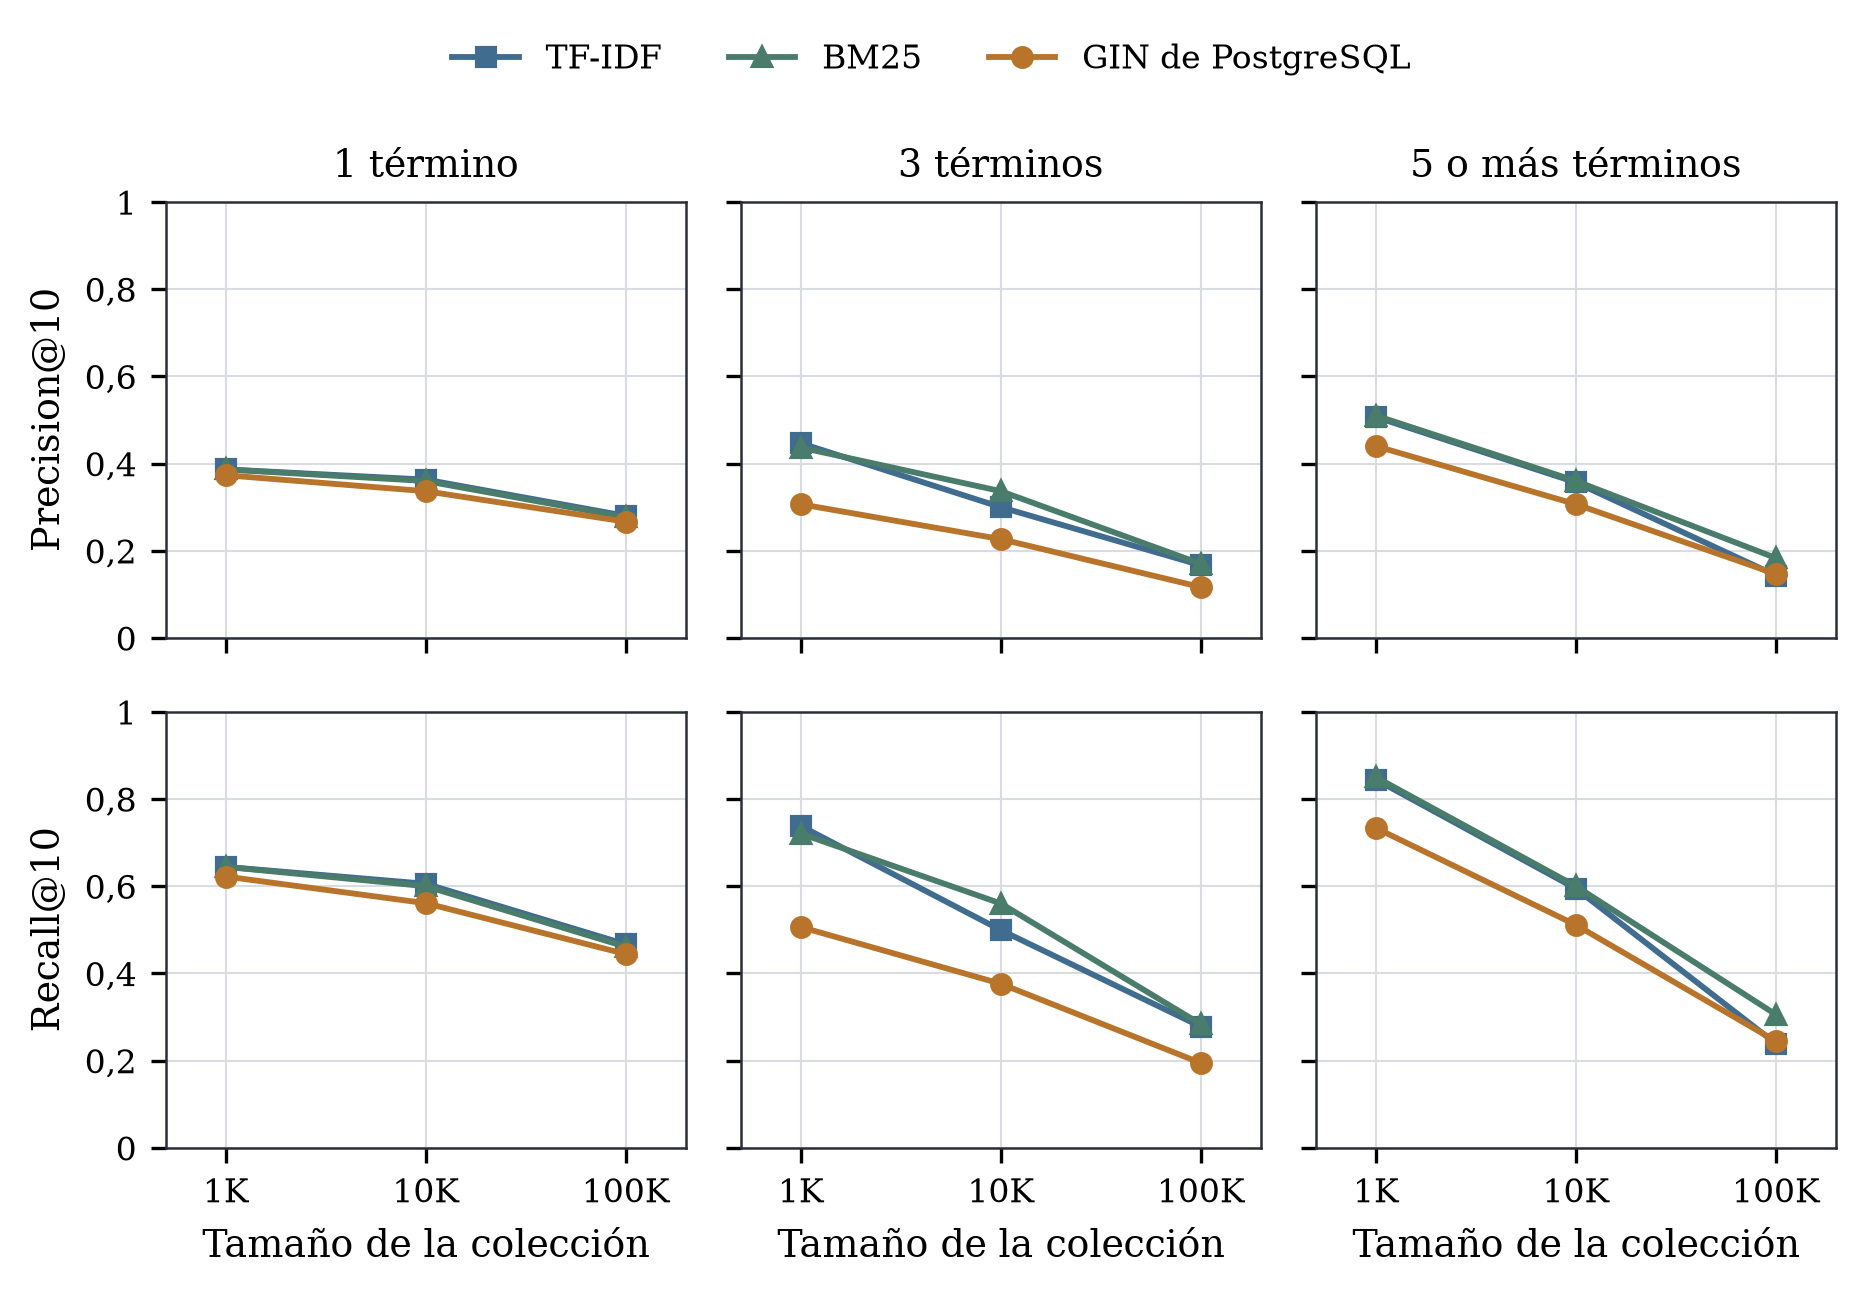
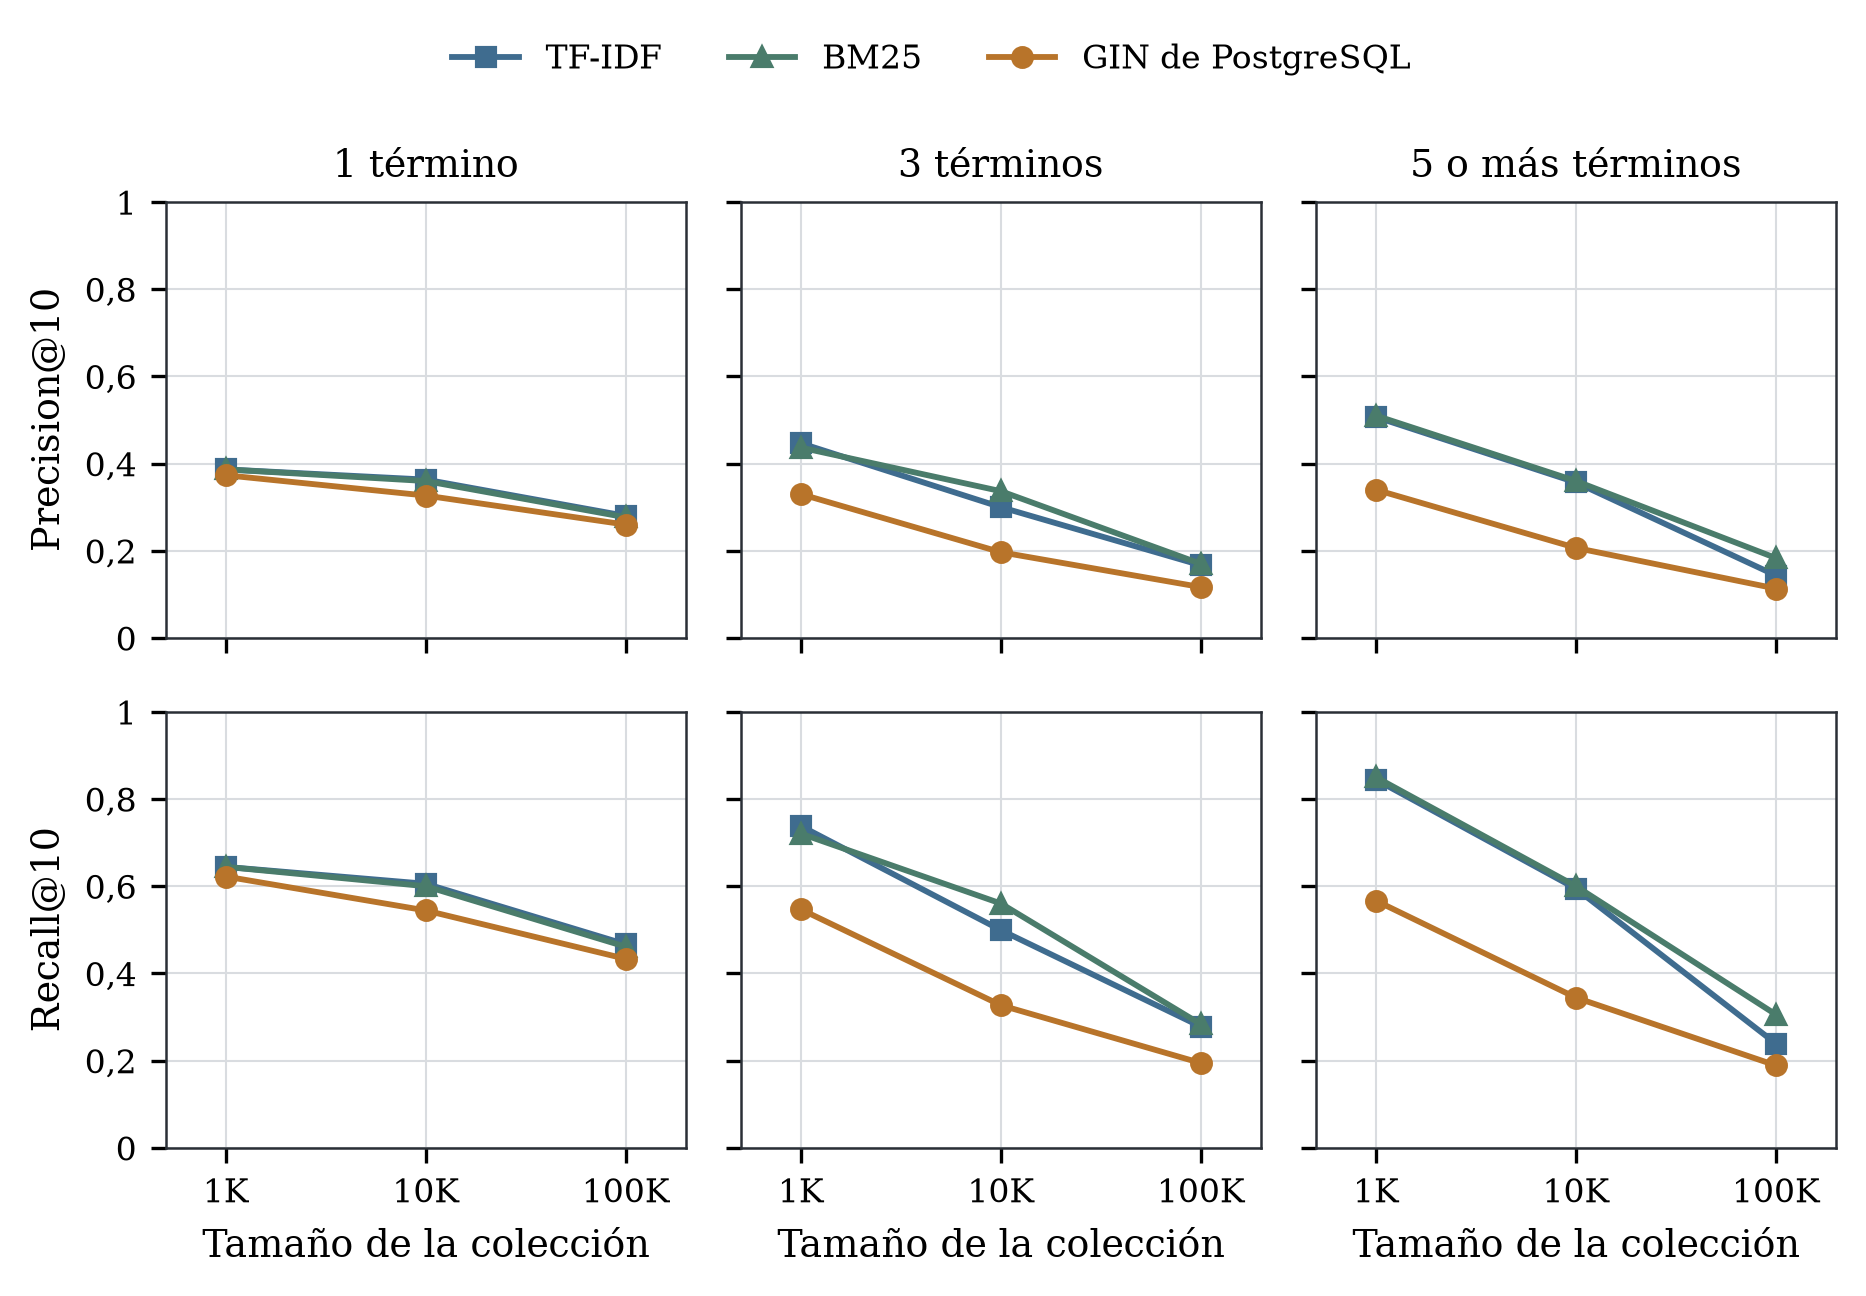
bench: minor changes to text comparisons

diff --git a/bench/experiments/texto.py b/bench/experiments/texto.py
@@ -1,6 +1,5 @@
 import argparse
 import csv
-import itertools
 import json
 import math
 import os
@@ -190,47 +189,41 @@ def _construir_pg_gin(conn, docs: list[tuple[int, str]], idioma_pg: str = "spani
 
 
 def _consultar_pg_gin(conn, texto_q: str, k: int, idioma_pg: str = "spanish") -> list[int]:
-    # 1) Conjuncion estricta (AND) con plainto_tsquery y ts_rank (frecuencia + normalizacion).
-    # 2) Si devuelve menos de k documentos en consultas de 2+ palabras, relajacion por quorum
-    #    de pares (t_i & t_j) para aprovechar las intersecciones de GIN sin escanear miles
-    #    de filas por una sola palabra comun.
+    # Usamos OR ('|') sobre los tokens de plainto_tsquery si AND estricto no devuelve k resultados,
+    # emulando ts_rank_cd sobre el indice GIN.
     with conn.cursor() as cur:
         cur.execute(
             f"""
             SELECT id
             FROM bench_esci_gin, plainto_tsquery('{idioma_pg}', %s) query
             WHERE tsv @@ query
-            ORDER BY ts_rank(tsv, query, 32) DESC
+            ORDER BY ts_rank_cd(tsv, query) DESC
             LIMIT %s;
             """,
             (texto_q, k),
         )
         ids = [int(r[0]) for r in cur.fetchall()]
-        if len(ids) >= k:
-            return ids[:k]
-
-        palabras = list(dict.fromkeys(w for w in preprocesar(texto_q, idioma_pg, stemming=False) if w))
-        if len(palabras) >= 2:
-            pares = ["(" + " & ".join(par) + ")" for par in itertools.combinations(palabras[:6], 2)]
-            expr = " | ".join(pares)
-            cur.execute(
-                f"""
-                SELECT id
-                FROM bench_esci_gin, to_tsquery('{idioma_pg}', %s) query
-                WHERE tsv @@ query
-                ORDER BY ts_rank(tsv, query, 32) DESC
-                LIMIT %s;
-                """,
-                (expr, k),
-            )
-            vistos = set(ids)
-            for (doc_id,) in cur.fetchall():
-                doc_id = int(doc_id)
-                if doc_id not in vistos:
-                    ids.append(doc_id)
-                    vistos.add(doc_id)
-                    if len(ids) >= k:
-                        break
+        if len(ids) < k:
+            palabras = [w for w in preprocesar(texto_q, idioma_pg, stemming=False) if w]
+            if len(palabras) > 1:
+                or_expr = " | ".join(palabras)
+                cur.execute(
+                    f"""
+                    SELECT id
+                    FROM bench_esci_gin, to_tsquery('{idioma_pg}', %s) query
+                    WHERE tsv @@ query
+                    ORDER BY ts_rank_cd(tsv, query) DESC
+                    LIMIT %s;
+                    """,
+                    (or_expr, k),
+                )
+                vistos = set(ids)
+                for (doc_id,) in cur.fetchall():
+                    if int(doc_id) not in vistos:
+                        ids.append(int(doc_id))
+                        vistos.add(int(doc_id))
+                        if len(ids) >= k:
+                            break
         return ids[:k]
 
 

diff --git a/bench/results/texto_resumen.md b/bench/results/texto_resumen.md
@@ -6,44 +6,44 @@
 
 | N | Índice Invertido | Construcción (s) | Espacio en Disco (MB) | Términos | Postings | Modo |
 |---:|:---|---:|---:|---:|---:|:---|
-| 1,000 | **SPIMI (Propio)** | 0.258 | 0.90 | 12,876 | 82,534 | SPIMI nativo |
-| 1,000 | **GIN (PostgreSQL)** | 0.237 | 1.12 | 12,876 | 82,534 | PostgreSQL real |
-| 10,000 | **SPIMI (Propio)** | 2.254 | 7.66 | 49,635 | 856,764 | SPIMI nativo |
-| 10,000 | **GIN (PostgreSQL)** | 1.372 | 6.69 | 49,635 | 856,764 | PostgreSQL real |
-| 100,000 | **SPIMI (Propio)** | 24.990 | 70.82 | 191,993 | 8,553,973 | SPIMI nativo |
-| 100,000 | **GIN (PostgreSQL)** | 13.541 | 47.51 | 191,993 | 8,553,973 | PostgreSQL real |
+| 1,000 | **SPIMI (Propio)** | 0.263 | 0.90 | 12,876 | 82,534 | SPIMI nativo |
+| 1,000 | **GIN (PostgreSQL)** | 0.191 | 1.12 | 12,876 | 82,534 | PostgreSQL real |
+| 10,000 | **SPIMI (Propio)** | 2.252 | 7.66 | 49,635 | 856,764 | SPIMI nativo |
+| 10,000 | **GIN (PostgreSQL)** | 1.563 | 6.69 | 49,635 | 856,764 | PostgreSQL real |
+| 100,000 | **SPIMI (Propio)** | 25.481 | 70.82 | 191,993 | 8,553,973 | SPIMI nativo |
+| 100,000 | **GIN (PostgreSQL)** | 14.783 | 47.51 | 191,993 | 8,553,973 | PostgreSQL real |
 
 ## 2. Tiempo de Consulta y Relevancia (Precision@10 y Recall@10)
 
 | N | Longitud Consulta | Motor | Latencia Media (ms) | Mediana P50 (ms) | Precision@10 | Recall@10 |
 |---:|:---|:---|---:|---:|---:|---:|
-| 1,000 | 1 palabra | **TF_IDF** | 0.211 | 0.198 | 0.387 | 0.644 |
-| 1,000 | 1 palabra | **BM25** | 0.211 | 0.198 | 0.387 | 0.644 |
-| 1,000 | 1 palabra | **GIN** | 0.117 | 0.104 | 0.373 | 0.622 |
-| 1,000 | 3 palabras | **TF_IDF** | 0.568 | 0.587 | 0.447 | 0.738 |
-| 1,000 | 3 palabras | **BM25** | 0.577 | 0.599 | 0.437 | 0.721 |
-| 1,000 | 3 palabras | **GIN** | 0.247 | 0.220 | 0.307 | 0.506 |
-| 1,000 | 5+ palabras | **TF_IDF** | 0.912 | 0.928 | 0.507 | 0.844 |
-| 1,000 | 5+ palabras | **BM25** | 0.904 | 0.916 | 0.510 | 0.850 |
-| 1,000 | 5+ palabras | **GIN** | 0.433 | 0.332 | 0.440 | 0.733 |
-| 10,000 | 1 palabra | **TF_IDF** | 0.310 | 0.269 | 0.363 | 0.606 |
-| 10,000 | 1 palabra | **BM25** | 0.299 | 0.258 | 0.360 | 0.600 |
-| 10,000 | 1 palabra | **GIN** | 0.122 | 0.104 | 0.337 | 0.561 |
-| 10,000 | 3 palabras | **TF_IDF** | 1.139 | 0.975 | 0.300 | 0.499 |
-| 10,000 | 3 palabras | **BM25** | 1.142 | 0.992 | 0.337 | 0.560 |
-| 10,000 | 3 palabras | **GIN** | 0.402 | 0.332 | 0.227 | 0.376 |
-| 10,000 | 5+ palabras | **TF_IDF** | 2.126 | 1.883 | 0.357 | 0.594 |
-| 10,000 | 5+ palabras | **BM25** | 2.067 | 1.942 | 0.360 | 0.600 |
-| 10,000 | 5+ palabras | **GIN** | 0.806 | 0.402 | 0.307 | 0.511 |
-| 100,000 | 1 palabra | **TF_IDF** | 0.828 | 0.416 | 0.280 | 0.467 |
-| 100,000 | 1 palabra | **BM25** | 2.219 | 0.389 | 0.277 | 0.461 |
-| 100,000 | 1 palabra | **GIN** | 0.737 | 0.166 | 0.267 | 0.444 |
-| 100,000 | 3 palabras | **TF_IDF** | 8.642 | 4.995 | 0.167 | 0.278 |
-| 100,000 | 3 palabras | **BM25** | 8.732 | 5.085 | 0.170 | 0.283 |
-| 100,000 | 3 palabras | **GIN** | 0.774 | 0.401 | 0.117 | 0.194 |
-| 100,000 | 5+ palabras | **TF_IDF** | 17.624 | 10.096 | 0.143 | 0.239 |
-| 100,000 | 5+ palabras | **BM25** | 18.023 | 10.347 | 0.183 | 0.306 |
-| 100,000 | 5+ palabras | **GIN** | 3.889 | 1.047 | 0.147 | 0.244 |
+| 1,000 | 1 palabra | **TF_IDF** | 0.240 | 0.225 | 0.387 | 0.644 |
+| 1,000 | 1 palabra | **BM25** | 0.215 | 0.202 | 0.387 | 0.644 |
+| 1,000 | 1 palabra | **GIN** | 0.123 | 0.101 | 0.373 | 0.622 |
+| 1,000 | 3 palabras | **TF_IDF** | 0.582 | 0.599 | 0.447 | 0.738 |
+| 1,000 | 3 palabras | **BM25** | 0.593 | 0.611 | 0.437 | 0.721 |
+| 1,000 | 3 palabras | **GIN** | 0.403 | 0.360 | 0.330 | 0.547 |
+| 1,000 | 5+ palabras | **TF_IDF** | 0.895 | 0.902 | 0.507 | 0.844 |
+| 1,000 | 5+ palabras | **BM25** | 0.906 | 0.892 | 0.510 | 0.850 |
+| 1,000 | 5+ palabras | **GIN** | 0.846 | 0.686 | 0.340 | 0.567 |
+| 10,000 | 1 palabra | **TF_IDF** | 0.340 | 0.298 | 0.363 | 0.606 |
+| 10,000 | 1 palabra | **BM25** | 0.300 | 0.258 | 0.360 | 0.600 |
+| 10,000 | 1 palabra | **GIN** | 0.207 | 0.091 | 0.327 | 0.544 |
+| 10,000 | 3 palabras | **TF_IDF** | 1.157 | 1.012 | 0.300 | 0.499 |
+| 10,000 | 3 palabras | **BM25** | 1.177 | 1.040 | 0.337 | 0.560 |
+| 10,000 | 3 palabras | **GIN** | 1.683 | 1.314 | 0.197 | 0.327 |
+| 10,000 | 5+ palabras | **TF_IDF** | 2.197 | 1.948 | 0.357 | 0.594 |
+| 10,000 | 5+ palabras | **BM25** | 2.068 | 1.987 | 0.360 | 0.600 |
+| 10,000 | 5+ palabras | **GIN** | 4.087 | 3.017 | 0.207 | 0.344 |
+| 100,000 | 1 palabra | **TF_IDF** | 0.894 | 0.434 | 0.280 | 0.467 |
+| 100,000 | 1 palabra | **BM25** | 2.156 | 0.395 | 0.277 | 0.461 |
+| 100,000 | 1 palabra | **GIN** | 2.462 | 0.175 | 0.260 | 0.433 |
+| 100,000 | 3 palabras | **TF_IDF** | 8.421 | 4.736 | 0.167 | 0.278 |
+| 100,000 | 3 palabras | **BM25** | 8.834 | 5.307 | 0.170 | 0.283 |
+| 100,000 | 3 palabras | **GIN** | 14.312 | 2.408 | 0.117 | 0.194 |
+| 100,000 | 5+ palabras | **TF_IDF** | 17.625 | 9.911 | 0.143 | 0.239 |
+| 100,000 | 5+ palabras | **BM25** | 18.594 | 10.576 | 0.183 | 0.306 |
+| 100,000 | 5+ palabras | **GIN** | 29.389 | 12.525 | 0.113 | 0.189 |
 
 ## 3. Ventajas, Desventajas y Cuándo Usar Cada Técnica
 
